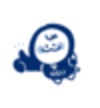
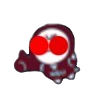
death,SoundEffect

Changed region(s): [[0.12, 0.1944, 0.81, 0.8056], [0.18, 0.3889, 0.24, 0.4167], [0.12, 0.4167, 0.18, 0.4444]]

diff --git a/src/GamePanel.java b/src/GamePanel.java
@@ -5,8 +5,10 @@ import java.awt.event.ActionListener;
 import javax.swing.*;
 import java.util.Timer;
 import java.util.TimerTask;
-
-
+import javax.sound.sampled.AudioSystem;
+import javax.sound.sampled.Clip;
+import javax.sound.sampled.AudioInputStream;
+import java.io.File;
 public class GamePanel extends JPanel{
     private Image backgroundImage;
     private ScorePanel scorePanel = null;
@@ -18,6 +20,8 @@ public class GamePanel extends JPanel{
 
     // 부기
     private ImageIcon boogiIcon = new ImageIcon("resource/img/boogi.jpg");
+    private ImageIcon deathBoogi = new ImageIcon("resource/img/deathboogi.jpg");
+    private Image deathBoogiImg = deathBoogi.getImage();
     private Image boogiImg = boogiIcon.getImage();
     private JLabel[] attackingLabels;
 
@@ -184,8 +188,35 @@ public class GamePanel extends JPanel{
                         if (wordLabels[i].isVisible() && inputText.equals(wordLabels[i].getText())) {
                             // 단어가 맞았을 때 해당 부기와 단어를 숨김
                         	scorePanel.boogiKillscore();
-                            wordLabels[i].setVisible(false);
-                            attackingLabels[i].setVisible(false);
+                        	attackingLabels[i].setIcon(deathBoogi);
+                        	// Play sound effect in a separate thread
+                            new Thread(() -> {
+                                try {
+                                    AudioInputStream audioInputStream = AudioSystem.getAudioInputStream(new File("resource/sound/deathSound.wav"));
+                                    Clip clip = AudioSystem.getClip();
+                                    clip.open(audioInputStream);
+                                    clip.start();
+                                } catch (Exception ex) {
+                                    ex.printStackTrace();
+                                }
+                            }).start();
+                            
+                            // final index to use inside TimerTask
+                            final int index = i;
+                            
+                            // 1초 후에 부기와 단어 숨기기 (별도의 타이머 사용)
+                            Timer timer = new Timer();
+                            timer.schedule(new TimerTask() {
+                                @Override
+                                public void run() {
+                                    SwingUtilities.invokeLater(() -> {
+                                        wordLabels[index].setVisible(false);
+                                        attackingLabels[index].setVisible(false);
+                                    });
+                                }
+                            }, 1000);
+                            
+                           
                             text.setText("");
                             break;
                         }

diff --git a/src/ScorePanel.java b/src/ScorePanel.java
@@ -5,7 +5,7 @@ public class ScorePanel extends JPanel { // 점수판
     public int score = 0;
     //public int cannotKill = 0;
     private JLabel killScoreLabel = new JLabel(Integer.toString(score));
-    private JLabel notKillScoreLabel = new JLabel(Integer.toString(cannotKill));
+    //private JLabel notKillScoreLabel = new JLabel(Integer.toString(cannotKill));
 
     public ScorePanel() {
         this.setBackground(Color.YELLOW);
